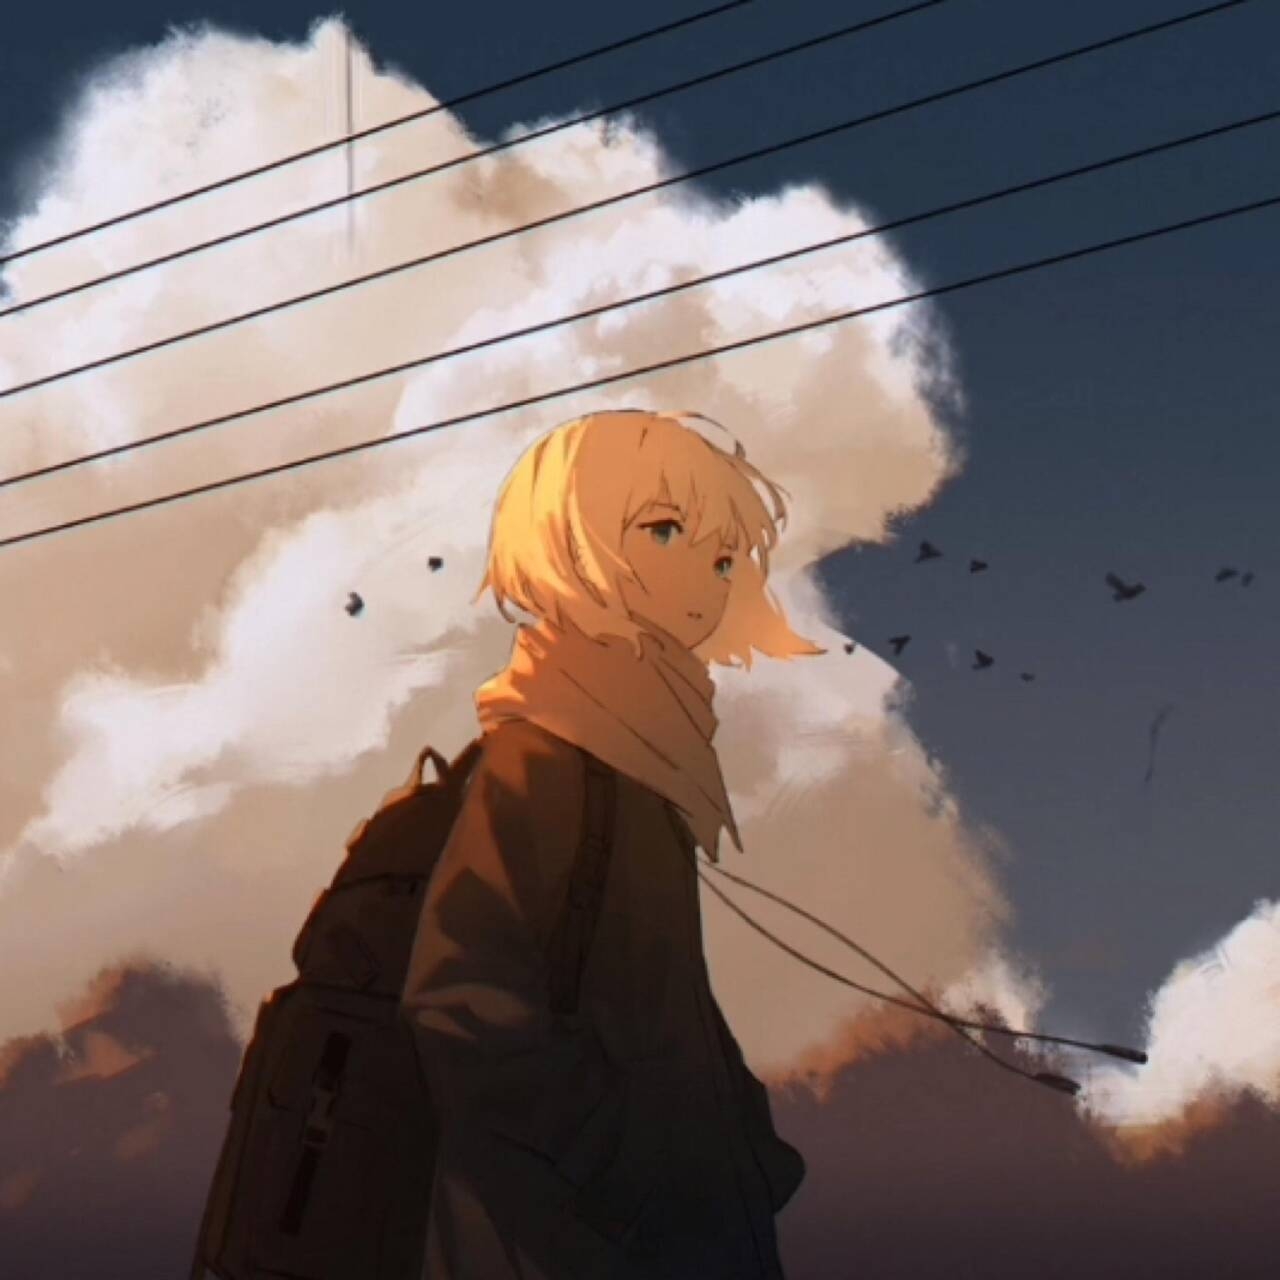
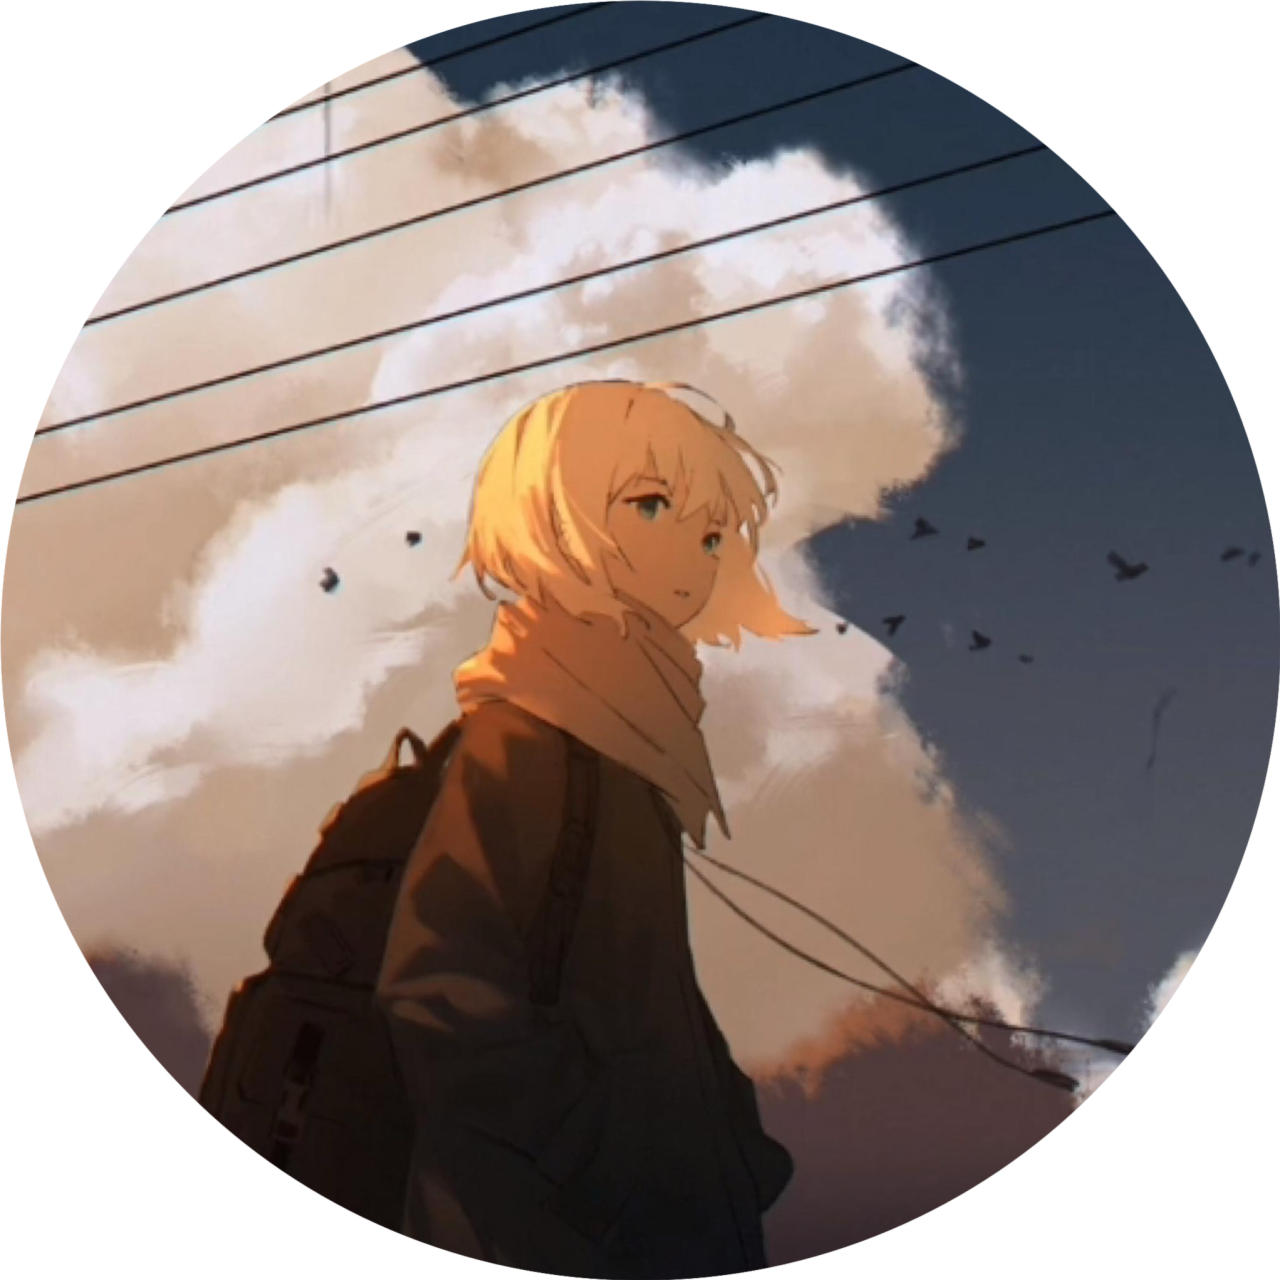
CDN server

diff --git a/2026/01/18/miniCPU-project/index.html b/2026/01/18/miniCPU-project/index.html
@@ -9,10 +9,11 @@
     
     Klein's Blog
   </title>
+  <!-- 图片 -->
+  <link rel="preconnect" href="https://cdn.rthe.cn" crossorigin>
+  <link rel="dns-prefetch" href="https://cdn.rthe.cn">
+  <link rel="shortcut icon" href="https://cdn.rthe.cn/cached-42f6b14bc08dd45f53faa5adca3f5c9e-avif/rayklein/avatar.png" type="image/png">
 
-  
-  <link rel="shortcut icon" href="/blog.klein.site/images/signature.png">
-  
 
   <link rel="preconnect" href="https://cdnjs.cloudflare.com">
   
@@ -26,6 +27,15 @@
   <link href="https://fonts.googleapis.com/css2?family=Montserrat:ital,wght@0,100..900;1,100..900&display=swap" rel="stylesheet">
   <link href="https://fonts.googleapis.com/css2?family=JetBrains+Mono:ital,wght@0,100..800;1,100..800&display=swap" rel="stylesheet">
 
+  <!-- 文件 -->
+  <link rel="preconnect" href="https://rayklein.rth1.xyz">
+  <link rel="dns-prefetch" href="//rayklein.rth1.xyz">
+  
+  <link rel="preload" 
+        as="document" 
+        href="https://rayklein.rth1.xyz/report.pdf"
+        type="application/pdf"
+        crossorigin="anonymous">
   
 <link rel="stylesheet" href="/blog.klein.site/css/root.css">
 
@@ -72,8 +82,18 @@
 
 
 
-<iframe src="/blog.klein.site/file/report.pdf" width="100%" height="600px" style="border: 1px solid var(--color-border-code); border-radius: 5px;" allowfullscreen></iframe>
-
+<div class="pdf-container">
+  <iframe 
+    src="https://rayklein.rth1.xyz/report.pdf#view=FitH&toolbar=0"
+    title="PDF"
+    loading="lazy"
+    allowfullscreen
+  ></iframe>
+  <div class="pdf-actions">
+    <a href="https://rayklein.rth1.xyz/report.pdf" download>download</a>
+    <a href="https://rayklein.rth1.xyz/report.pdf" target="_blank">open in new window</a>
+  </div>
+</div>
 
 
 </main>

diff --git a/2026/01/17/hello-world/index.html b/2026/01/17/hello-world/index.html
@@ -12,7 +12,10 @@
   </title>
 
   
-  <link rel="shortcut icon" href="/blog.klein.site/images/signature.png">
+   <!-- 图片 -->
+  <link rel="preconnect" href="https://cdn.rthe.cn" crossorigin>
+  <link rel="dns-prefetch" href="https://cdn.rthe.cn">
+  <link rel="shortcut icon" href="https://cdn.rthe.cn/cached-42f6b14bc08dd45f53faa5adca3f5c9e-avif/rayklein/avatar.png" type="image/png">
   
 
   <link rel="preconnect" href="https://cdnjs.cloudflare.com">
@@ -20,13 +23,15 @@
   <link id="theme" rel="stylesheet" href="https://cdnjs.cloudflare.com/ajax/libs/highlight.js/11.9.0/styles/atom-one-light.css">
   <script src="https://unpkg.com/@highlightjs/cdn-assets@11.9.0/highlight.min.js"></script>
   
-
+  
   <!-- 字体 -->
   <link rel="preconnect" href="https://fonts.googleapis.com">
   <link rel="preconnect" href="https://fonts.gstatic.com" crossorigin>
   <link href="https://fonts.googleapis.com/css2?family=Montserrat:ital,wght@0,100..900;1,100..900&display=swap" rel="stylesheet">
   <link href="https://fonts.googleapis.com/css2?family=JetBrains+Mono:ital,wght@0,100..800;1,100..800&display=swap" rel="stylesheet">
+  
 
+  
   
 <link rel="stylesheet" href="/blog.klein.site/css/root.css">
 
@@ -69,7 +74,7 @@
   </div>
   
 
-  <main class="post-content"><h2 id="写给未来的自己"><a href="写给未来的自己" class="headerlink" title="写给未来的自己"></a>写给未来的自己</h2>
+  <main class="post-content"><h2 id="To future"><a href="To future" class="headerlink" title="To future"></a>To future</h2>
 <p>This is Klein's first blog post.</p>
 
 </main>

diff --git a/about/index.html b/about/index.html
@@ -12,8 +12,11 @@
     Klein's Blog
   </title>
 
+ <!-- 图片 -->
+  <link rel="preconnect" href="https://cdn.rthe.cn" crossorigin>
+  <link rel="dns-prefetch" href="https://cdn.rthe.cn">
+  <link rel="shortcut icon" href="https://cdn.rthe.cn/cached-42f6b14bc08dd45f53faa5adca3f5c9e-avif/rayklein/avatar.png" type="image/png">
   
-  <link rel="shortcut icon" href="/blog.klein.site/images/signature.png">
   
 
   <link rel="preconnect" href="https://cdnjs.cloudflare.com">
@@ -57,7 +60,7 @@
     <article class="post">
   
 
-  <main class="post-content"><img src="../images/avatar.png" alt="Avatar" style="border-radius: 50%; width: 88px; height: 88px; object-fit: cover;">
+  <main class="post-content"><img src="https://cdn.rthe.cn/cached-42f6b14bc08dd45f53faa5adca3f5c9e-avif/rayklein/avatar.png" alt="Avatar" style="border-radius: 50%; width: 88px; height: 88px; object-fit: cover;">
 
 <h2 id="About-Me"><a href="#About-Me" class="headerlink" title="About Me"></a>About Me</h2><p>Currently an undergraduate student at ShanghaiTech University, majoring in Electronics Engineering.</p>
 <p>Passionate about technology, and sharing life.</p>

diff --git a/2026/01/19/backtohighschool/index.html b/2026/01/19/backtohighschool/index.html
@@ -12,7 +12,11 @@
   </title>
 
   
-  <link rel="shortcut icon" href="/blog.klein.site/images/signature.png">
+  <!-- 图片 -->
+  <link rel="preconnect" href="https://cdn.rthe.cn" crossorigin>
+  <link rel="dns-prefetch" href="https://cdn.rthe.cn">
+  <link rel="shortcut icon" href="https://cdn.rthe.cn/cached-42f6b14bc08dd45f53faa5adca3f5c9e-avif/rayklein/avatar.png" type="image/png">
+  
   
 
   <link rel="preconnect" href="https://cdnjs.cloudflare.com">
@@ -77,7 +81,16 @@
 
 <p>After that, I went to eat hotpot with my high school friends.😋</p>
 <div class="post-image-wrapper">
-  <img src="/blog.klein.site/images/2026/01/cat.jpg" alt="Cat" class="post-image">
+  <img 
+    src="https://cdn.rthe.cn/cached-b0f9435cb5fdae61dff3668c21bb39bd-avif/rayklein/cat.jpg" 
+    alt="cat"
+    width="200"
+    height="200"
+    loading="lazy"
+    decoding="async"
+    crossorigin="anonymous"
+    class="post-image-wrapper"
+  >
 </div>
 
 

diff --git a/archives/2026/01/Helloworld.html b/archives/2026/01/Helloworld.html
@@ -9,8 +9,10 @@
     Klein's Blog
   </title>
 
-  
-  <link rel="shortcut icon" href="/blog.klein.site/images/signature.png">
+  <!-- 图片 -->
+  <link rel="preconnect" href="https://cdn.rthe.cn" crossorigin>
+  <link rel="dns-prefetch" href="https://cdn.rthe.cn">
+  <link rel="shortcut icon" href="https://cdn.rthe.cn/cached-42f6b14bc08dd45f53faa5adca3f5c9e-avif/rayklein/avatar.png" type="image/png">
   
 
   <link rel="preconnect" href="https://cdnjs.cloudflare.com">

diff --git a/archives/2026/01/backtohighschool.html b/archives/2026/01/backtohighschool.html
@@ -9,8 +9,10 @@
     Klein's Blog
   </title>
 
-  
-  <link rel="shortcut icon" href="/blog.klein.site/images/signature.png">
+  <!-- 图片 -->
+  <link rel="preconnect" href="https://cdn.rthe.cn" crossorigin>
+  <link rel="dns-prefetch" href="https://cdn.rthe.cn">
+  <link rel="shortcut icon" href="https://cdn.rthe.cn/cached-42f6b14bc08dd45f53faa5adca3f5c9e-avif/rayklein/avatar.png" type="image/png">
   
 
   <link rel="preconnect" href="https://cdnjs.cloudflare.com">

diff --git a/index.html b/index.html
@@ -9,8 +9,11 @@
     Klein's Blog
   </title>
 
+ <!-- 图片 -->
+  <link rel="preconnect" href="https://cdn.rthe.cn" crossorigin>
+  <link rel="dns-prefetch" href="https://cdn.rthe.cn">
+  <link rel="shortcut icon" href="https://cdn.rthe.cn/cached-42f6b14bc08dd45f53faa5adca3f5c9e-avif/rayklein/avatar.png" type="image/png">
   
-  <link rel="shortcut icon" href="/blog.klein.site/images/signature.png">
   
 
   <link rel="preconnect" href="https://cdnjs.cloudflare.com">

diff --git a/tags/Note/index.html b/tags/Note/index.html
@@ -10,9 +10,11 @@
   </title>
 
   
-  <link rel="shortcut icon" href="/blog.klein.site/images/signature.png">
+  <!-- 图片 -->
+  <link rel="preconnect" href="https://cdn.rthe.cn" crossorigin>
+  <link rel="dns-prefetch" href="https://cdn.rthe.cn">
+  <link rel="shortcut icon" href="https://cdn.rthe.cn/cached-42f6b14bc08dd45f53faa5adca3f5c9e-avif/rayklein/avatar.png" type="image/png">
   
-
   <link rel="preconnect" href="https://cdnjs.cloudflare.com">
   
 

diff --git a/archives/index.html b/archives/index.html
@@ -10,7 +10,11 @@
   </title>
 
   
-  <link rel="shortcut icon" href="/blog.klein.site/images/signature.png">
+  <!-- 图片 -->
+  <link rel="preconnect" href="https://cdn.rthe.cn" crossorigin>
+  <link rel="dns-prefetch" href="https://cdn.rthe.cn">
+  <link rel="shortcut icon" href="https://cdn.rthe.cn/cached-42f6b14bc08dd45f53faa5adca3f5c9e-avif/rayklein/avatar.png" type="image/png">
+  
   
 
   <link rel="preconnect" href="https://cdnjs.cloudflare.com">

diff --git a/archives/2026/01/miniCPU.html b/archives/2026/01/miniCPU.html
@@ -10,7 +10,10 @@
   </title>
 
   
-  <link rel="shortcut icon" href="/blog.klein.site/images/signature.png">
+  <!-- 图片 -->
+  <link rel="preconnect" href="https://cdn.rthe.cn" crossorigin>
+  <link rel="dns-prefetch" href="https://cdn.rthe.cn">
+  <link rel="shortcut icon" href="https://cdn.rthe.cn/cached-42f6b14bc08dd45f53faa5adca3f5c9e-avif/rayklein/avatar.png" type="image/png">
   
 
   <link rel="preconnect" href="https://cdnjs.cloudflare.com">

diff --git a/tags/Blog/index.html b/tags/Blog/index.html
@@ -10,7 +10,10 @@
   </title>
 
   
-  <link rel="shortcut icon" href="/blog.klein.site/images/signature.png">
+ <!-- 图片 -->
+  <link rel="preconnect" href="https://cdn.rthe.cn" crossorigin>
+  <link rel="dns-prefetch" href="https://cdn.rthe.cn">
+  <link rel="shortcut icon" href="https://cdn.rthe.cn/cached-42f6b14bc08dd45f53faa5adca3f5c9e-avif/rayklein/avatar.png" type="image/png">
   
 
   <link rel="preconnect" href="https://cdnjs.cloudflare.com">
